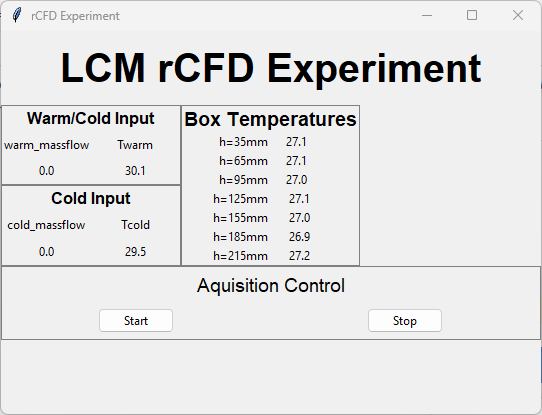
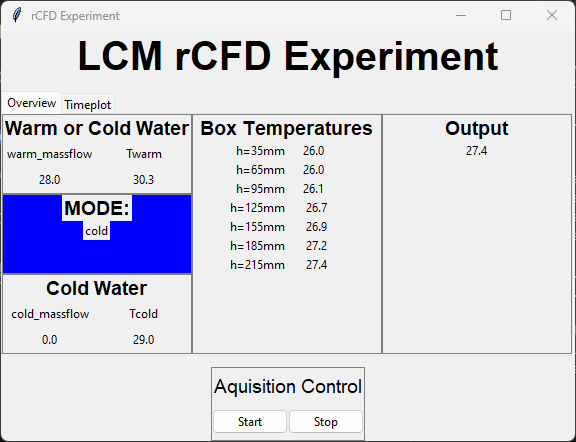
Switch added to GUI. Beginn of second tab (temp over time)

diff --git a/functions/frames.py b/functions/frames.py
@@ -1,0 +1,142 @@
+import tkinter as tk
+from tkinter import ttk
+
+from .measurementHandler import MeasurementDataHandler
+from .experimentHandler import ExperimentHandler
+from .sensors import PT100, Flowmeter, Switch
+
+
+class Frame_aquisitionControl(tk.Frame):
+    def __init__(self, parent, handler: ExperimentHandler):
+        super().__init__(master=parent, highlightbackground="gray", highlightthickness=1)
+
+        self.grid_rowconfigure((0,1), weight=2, uniform='a')
+        self.grid_columnconfigure((0,1), weight=1, uniform='a')
+
+        label = ttk.Label(self, text='Aquisition Control', font=('Arial', 14))
+        bStart = ttk.Button(self, text='Start', command=handler.start)
+        bStop = ttk.Button(self, text='Stop', command=handler.stop)
+
+        label.grid(row=0, column=0, columnspan=2, pady=5, sticky='')
+        bStart.grid(row=1,column=0)
+        bStop.grid(row=1, column=1)
+
+class Frame_massflow(tk.Frame):
+    def __init__(self, parent, name:str, mDot_Sensor: Flowmeter, T_Sensor: PT100):
+        super().__init__(master=parent, highlightbackground="gray", highlightthickness=1)
+        self.mDot_Sensor = mDot_Sensor
+        self.T_Sensor = T_Sensor
+
+        self.grid_rowconfigure((0,1,2), weight=2, uniform='a')
+        self.grid_columnconfigure((0,1), weight=1, uniform='a')
+
+        self.mDot_var = tk.DoubleVar()
+        self.T_var = tk.DoubleVar()
+
+        ttk.Label(self,text=name, font=('Arial', 14, 'bold')).grid(row=0,column=0, columnspan=2)
+
+        ttk.Label(self, text=self.mDot_Sensor.sensor_name).grid(row=1, column=0)
+        ttk.Label(self, textvariable=self.mDot_var).grid(row=2, column=0)
+
+        ttk.Label(self, text=self.T_Sensor.sensor_name).grid(row=1, column=1)
+        ttk.Label(self, textvariable=self.T_var).grid(row=2, column=1)
+
+        self._setVars()
+
+    def _setVars(self):
+        prec = 1
+        self.mDot_var.set(round(self.mDot_Sensor.value,prec))
+        self.T_var.set(round(self.T_Sensor.value,prec))
+        self.after(100, self._setVars)
+
+class Frame_Box_Single_Temp(tk.Frame):
+    def __init__(self, parent, sensor: PT100):
+        super().__init__(master=parent)
+        self.sensor = sensor
+        self.T_var = tk.DoubleVar()
+        self.grid_rowconfigure(1, weight=1, uniform='a')
+        self.grid_columnconfigure((0,1), weight=1, uniform='a')
+
+        ttk.Label(self, text=sensor.sensor_name).grid(row=0, column=0)
+        ttk.Label(self, textvariable=self.T_var).grid(row=0, column=1)
+
+        self._setVars()
+
+    def _setVars(self):
+        prec = 1
+        self.T_var.set(round(self.sensor.value,prec))
+        self.after(100, self._setVars)
+
+class Frame_Box_Temps(tk.Frame):
+    def __init__(self, parent, name:str, sensorsList: list[PT100]):
+        super().__init__(master = parent, highlightbackground="gray", highlightthickness=1)
+        ttk.Label(self,text=name, font=('Arial', 14, 'bold')).pack()
+        for i,sensor in enumerate(sensorsList):
+            Frame_Box_Single_Temp(parent=self, sensor=sensor).pack()
+
+class Frame_Switch(tk.Frame):
+    def __init__(self, parent, name,  switch: Switch):
+        super().__init__(master=parent, highlightbackground="gray", highlightthickness=1)
+        self.switch = switch
+        self.mode = tk.StringVar()
+
+        ttk.Label(self, text=name, font=('Arial', 14, 'bold')).pack()
+        ttk.Label(self, textvariable=self.mode).pack()
+        self._setVar()
+    
+    def _setVar(self):
+        if self.switch.value == 'warm':
+            self.config(bg='red')
+        if self.switch.value == 'cold':
+            self.config(bg='blue')
+        self.mode.set(self.switch.value)
+        self.after(100, self._setVar)
+
+class Frame_Tout(tk.Frame):
+    def __init__(self, parent, name, sensor: PT100):
+        super().__init__(master=parent, highlightbackground="gray", highlightthickness=1)
+        self.sensor = sensor
+        self.T_var = tk.DoubleVar()
+
+        ttk.Label(self, text=name,font=('Arial', 14, 'bold')).pack()
+        ttk.Label(self, textvariable=self.T_var).pack()
+        self._setVar()
+    
+    def _setVar(self):
+        prec = 1
+        self.T_var.set(round(self.sensor.value, 1))
+        self.after(100, self._setVar)
+
+
+class Frame_DataOverview(tk.Frame):
+    def __init__(self, parent, mdh: MeasurementDataHandler):
+        super().__init__(master=parent)
+
+        self.grid_rowconfigure((0,1,2), weight=1, uniform='a')
+        self.grid_columnconfigure((0,1,2), weight=1, uniform='a')
+
+        # first column
+        mDot_Sensor = mdh.getSensorByName('warm_massflow')
+        T_Sensor = mdh.getSensorByName('Twarm')
+        frame_warm = Frame_massflow(self, 'Warm or Cold Water', mDot_Sensor, T_Sensor)
+
+        switch_Sensor = mdh.getSensorByName('warm/cold')
+        frame_switch = Frame_Switch(self, 'MODE:', switch=switch_Sensor)
+
+        mDot_Sensor = mdh.getSensorByName('cold_massflow')
+        T_Sensor = mdh.getSensorByName('Tcold')
+        frame_cold = Frame_massflow(self, 'Cold Water', mDot_Sensor, T_Sensor)
+
+        sensors = ['h=35mm','h=65mm','h=95mm','h=125mm','h=155mm','h=185mm','h=215mm']
+        sensorList = [mdh.getSensorByName(name=s) for s in sensors]
+        frame_Box = Frame_Box_Temps(self, 'Box Temperatures', sensorList)
+
+        T_Sensor = mdh.getSensorByName('Tout')
+        frame_out = Frame_Tout(self, 'Output', T_Sensor)
+
+        #layout
+        frame_warm.grid(row=0, column=0, sticky='nsew')
+        frame_switch.grid(row=1, column=0, sticky='nsew')
+        frame_cold.grid(row=2, column=0, sticky='nsew')
+        frame_Box.grid(row=0, column=1, rowspan=3, sticky='nsew')
+        frame_out.grid(row=0, column=2, rowspan=3, sticky='nsew')

diff --git a/main.py b/main.py
@@ -4,83 +4,11 @@ from tkinter import ttk
 from functions.config import Configuration
 from functions.measurementHandler import MeasurementDataHandler
 from functions.experimentHandler import ExperimentHandler
-from functions.sensors import PT100, Flowmeter
+from functions.frames import Frame_DataOverview, Frame_aquisitionControl
 
 from labjack import ljm
-
 from pathlib import Path
 
-
-
-
-
-class Frame_aquisitionControl(tk.Frame):
-    def __init__(self, parent, handler: ExperimentHandler):
-        super().__init__(master=parent, highlightbackground="gray", highlightthickness=1)
-
-        self.grid_rowconfigure((0,1), weight=2, uniform='a')
-        self.grid_columnconfigure((0,1), weight=1, uniform='a')
-
-        label = ttk.Label(self, text='Aquisition Control', font=('Arial', 14))
-        bStart = ttk.Button(self, text='Start', command=handler.start)
-        bStop = ttk.Button(self, text='Stop', command=handler.stop)
-
-        label.grid(row=0, column=0, columnspan=2, pady=5, sticky='')
-        bStart.grid(row=1,column=0)
-        bStop.grid(row=1, column=1)
-
-class Frame_massflow(tk.Frame):
-    def __init__(self, parent, name:str, mDot_Sensor: Flowmeter, T_Sensor: PT100):
-        super().__init__(master=parent, highlightbackground="gray", highlightthickness=1)
-        self.mDot_Sensor = mDot_Sensor
-        self.T_Sensor = T_Sensor
-
-        self.grid_rowconfigure((0,1,2), weight=2, uniform='a')
-        self.grid_columnconfigure((0,1), weight=1, uniform='a')
-
-        self.mDot_var = tk.DoubleVar()
-        self.T_var = tk.DoubleVar()
-
-        ttk.Label(self,text=name, font=('Arial', 12, 'bold')).grid(row=0,column=0, columnspan=2)
-
-        ttk.Label(self, text=self.mDot_Sensor.sensor_name).grid(row=1, column=0)
-        ttk.Label(self, textvariable=self.mDot_var).grid(row=2, column=0)
-
-        ttk.Label(self, text=self.T_Sensor.sensor_name).grid(row=1, column=1)
-        ttk.Label(self, textvariable=self.T_var).grid(row=2, column=1)
-
-        self._setVars()
-
-    def _setVars(self):
-        prec = 1
-        self.mDot_var.set(round(self.mDot_Sensor.value,prec))
-        self.T_var.set(round(self.T_Sensor.value,prec))
-        self.after(100, self._setVars)
-
-class Frame_Box_Single_Temp(tk.Frame):
-    def __init__(self, parent, sensor: PT100):
-        super().__init__(master=parent)
-        self.sensor = sensor
-        self.T_var = tk.DoubleVar()
-        self.grid_rowconfigure(1, weight=1, uniform='a')
-        self.grid_columnconfigure((0,1), weight=1, uniform='a')
-
-        ttk.Label(self, text=sensor.sensor_name).grid(row=0, column=0)
-        ttk.Label(self, textvariable=self.T_var).grid(row=0, column=1)
-
-        self._setVars()
-
-    def _setVars(self):
-        prec = 1
-        self.T_var.set(round(self.sensor.value,prec))
-        self.after(100, self._setVars)
-
-class Frame_Box_Temps(tk.Frame):
-    def __init__(self, parent, name:str, sensorsList: list[PT100]):
-        super().__init__(master = parent, highlightbackground="gray", highlightthickness=1)
-        ttk.Label(self,text=name, font=('Arial', 14, 'bold')).pack()
-        for i,sensor in enumerate(sensorsList):
-            Frame_Box_Single_Temp(parent=self, sensor=sensor).pack()
 
 if __name__ == '__main__':
     # my used device
@@ -97,42 +25,24 @@ if __name__ == '__main__':
     exp_handler.setPathToSave(pathToSave=savePath)
     
     # GUI
-    
     window = tk.Tk()
     window.title('rCFD Experiment')
 
-    window.grid_rowconfigure((0,1,2,3,4), weight=1, uniform='a')
-    window.grid_columnconfigure((0,1,2), weight=1, uniform='a')
-
     # header
-    header=ttk.Label(window, text='LCM rCFD Experiment', font=('Arial', 30, 'bold'))
-    header.grid(row=0, column=0, columnspan=3)
+    ttk.Label(master=window, text='LCM rCFD Experiment', font=('Arial', 30, 'bold')).pack()
+    # notebook
+    notebook = ttk.Notebook(window)
+    notebook.pack(pady=10, expand=True)
 
 
-    input1 = Frame_massflow(
-        parent=window,
-        name='Warm/Cold Input',
-        mDot_Sensor=mdh.getSensorByName('warm_massflow'),
-        T_Sensor=mdh.getSensorByName('Twarm'))
-    input1.grid(row=1, column=0, sticky='nsew')
+    frame_overview = Frame_DataOverview(parent=window, mdh=mdh)
+    frame_overview.pack()
+    frame_blank = ttk.Frame(window)
+    frame_blank.pack()
 
-    input1 = Frame_massflow(
-        parent=window,
-        name='Cold Input',
-        mDot_Sensor=mdh.getSensorByName('cold_massflow'),
-        T_Sensor=mdh.getSensorByName('Tcold'))
-    input1.grid(row=2, column=0, sticky='nsew')
+    notebook.add(frame_overview, text='Overview')
+    notebook.add(frame_blank, text='Timeplot')
 
-    sensors = ['h=35mm','h=65mm','h=95mm','h=125mm','h=155mm','h=185mm','h=215mm']
-    sensorList = [mdh.getSensorByName(name=s) for s in sensors]
-    
-    temps = Frame_Box_Temps(
-        parent=window,
-        name='Box Temperatures',
-        sensorsList=sensorList)
-    temps.grid(row=1,column=1, rowspan=2)
-
-    aq_control = Frame_aquisitionControl(parent=window, handler=exp_handler)
-    aq_control.grid(row=3, column=0, columnspan=3, sticky='nsew')
-
+    # Control
+    Frame_aquisitionControl(parent=window, handler=exp_handler).pack()
     window.mainloop()

diff --git a/functions/sensors.py b/functions/sensors.py
@@ -31,11 +31,8 @@ class Sensors(ABC):
         '''representation of sensor e.g.: T1 = 25.1°C '''
         if isinstance(self.value, float):
             return f'{self.sensor_name} = {self.value:.1f}{self.unit}'
-        if isinstance(self.value, bool):
-            if self.value:
-                return f'{self.sensor_name} = warm'
-            else:
-                return f'{self.sensor_name} = cold'
+        else:
+            return f'{self.sensor_name} = {self.value}'
     
 class PT100(Sensors):
     ''' PT100 sensor
@@ -69,7 +66,7 @@ class Flowmeter(Sensors):
 
     @property
     def unit(self) -> str:
-        return 'ml/min'
+        return 'ml/s'
 
     @property
     def value(self) -> float:
@@ -79,7 +76,7 @@ class Flowmeter(Sensors):
 
         I = self.voltage/self.R_shunt # current
         if I < 4*1e-3: I = 4*1e-3 # correct no flow
-        return round(k*I + d, 4)
+        return round((k*I + d)/60, 2)
 
 class Switch(Sensors):
 
@@ -91,12 +88,12 @@ class Switch(Sensors):
         return '[1]'
 
     @property
-    def value(self) -> bool:
+    def value(self) -> str:
         ''''logic true/false'''
-        if self.voltage <= 1: # False
-            return False
-        else:
-            return True
+        if self.voltage <= 1: # cold
+            return 'cold'
+        else: # warm
+            return 'warm'
 
 
 if __name__ == '__main__':

diff --git a/functions/experimentHandler.py b/functions/experimentHandler.py
@@ -19,7 +19,7 @@ class ExperimentHandler():
 
     def start(self):
         '''starts an experiment'''
-
+        os.system('cls')
         print('Start measurement')
         self.data = []
         self.pfh = periodicFunctionHandler(func = self._measure)
@@ -28,8 +28,8 @@ class ExperimentHandler():
 
     def stop(self):
         '''stops an experiment'''
-        self.pfh.stop()
         os.system('cls')
+        self.pfh.stop()
         print('Stop Measurement')
 
         print('Save Data')

diff --git a/functions/measurementHandler.py b/functions/measurementHandler.py
@@ -54,8 +54,10 @@ class MeasurementDataHandler():
 
     def printCMD(self) -> str:
         '''print all sensor data to the command'''
-        os.system('cls')
-        [print(s) for s in self.SENSOR_LIST.values()] 
+        data = self.SENSOR_LIST.values()
+        [print(s) for s in data]
+        # Go with cursor up
+        print(f"\r\033[{len(data)}A", end="")
 
     def all_sensor_values(self) -> list:
         '''returns the measured data as a list with timestamp'''
